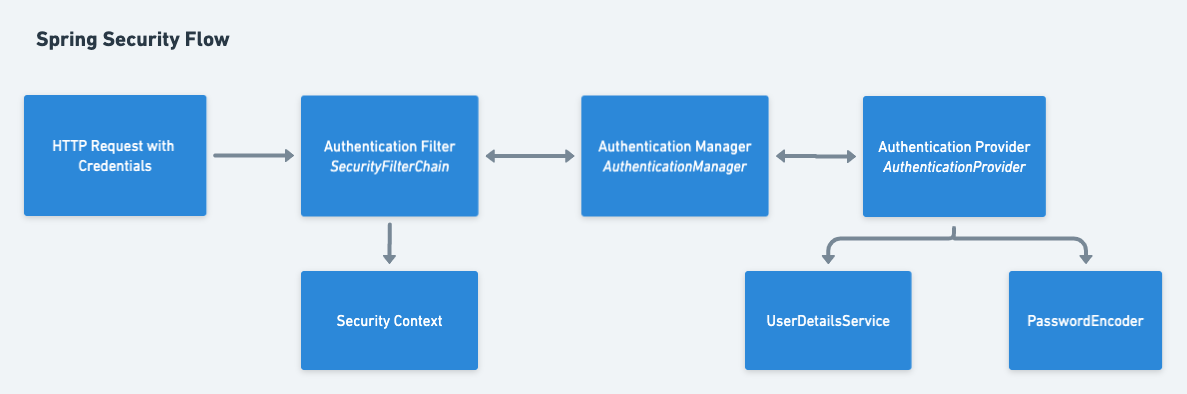
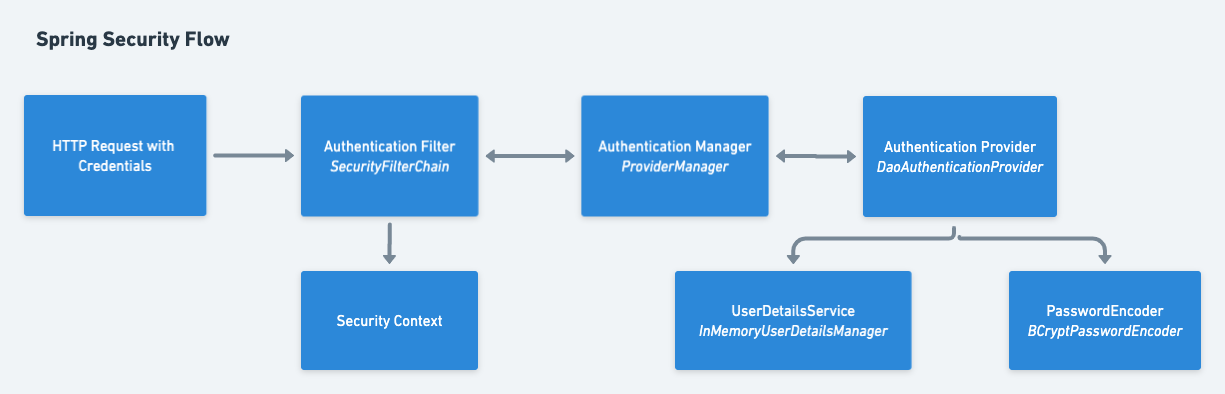
add spring security architecture

diff --git a/introduction.md b/introduction.md
@@ -102,7 +102,8 @@ Simply adding the dependency provides following security features and more to yo
 3. Manages user sessions by default, with options to configure session fixation, session concurrency, and logout options.
 4. Default URL patterns for authentication and authorization. For example, "/login" is the default URL for the login page, and "/logout" is the default URL for logging out.
 5. Adds a login form with fields username and password.
-6. Handles login error.
+6. Adds a logout page woth logout button.
+7. Handles login error.
 
 The default user credentials generated by Spring Security can be overridden by adding the properties to `application.properties` file.
 
@@ -112,21 +113,68 @@ The default user credentials generated by Spring Security can be overridden by a
 ```
 
 
-###  Configuring Spring Security
+##  Configuring Spring Security
 
-Create a security configuration class and annotate it with *@EnableWebSecurity* and *@Configuration* annotations. Implement the *WebSecurityConfigurer* interface, which provides methods to configure security settings.
-
-```
-
-```
+Create a security configuration class and annotate it with *@EnableWebSecurity* and *@Configuration* annotations. 
 
 ```java
-public class Tutorial {
-    public static void main(String...args){
-        
-    }
+
+@EnableWebSecurity
+@Configuration
+public class SecurityConfig {
+	...
+}
+```
+
+### Security Filter Chain
+
+In Spring Security, the security filter chain is a series of filters that intercept and process incoming HTTP requests to enforce security measures in a web application. The security filter chain is responsible for handling authentication, authorization, and other security-related tasks.
+
+The security filter chain is comprised of a set of filter classes, each responsible for a specific security function such as authentication, authorization, CSRF protection, session management, and more. These filters work together in a specific order to apply the necessary security measures to incoming requests.
+
+```java
+@Bean
+public SecurityFilterChain filterChain(HttpSecurity http) throws Exception {
+    http.authorizeHttpRequests()
+        .requestMatchers("/","/home").hasRole("ADMIN")
+        .requestMatchers("/ca-en", "/ca-fr").hasAnyRole("ADMIN", "USER")
+        .and().formLogin().and().csrf().disable();
+
+    return http.build();
 }
 
 ```
 
+### In-memory Authentication
 
+In-memory authentication is a method of authentication provided by Spring Security that stores user credentials in memory rather than in a database. With in-memory authentication, user information such as usernames, passwords, and roles are stored in an in-memory data structure such as a hash map or a list.
+
+When a user attempts to authenticate, the *InMemoryUserDetailsManager* is used to retrieve their credentials from the in-memory data structure. If the credentials are valid, the user is authenticated and authorized based on their roles.
+
+```java
+@Bean
+public InMemoryUserDetailsManager userDetailsService() {
+    UserDetails user1 = User.withUsername("user1")
+        .password(passwordEncoder().encode("password1"))
+        .roles("USER")
+        .build();
+    UserDetails user2 = User.withUsername("user2")
+        .password(passwordEncoder().encode("password2"))
+        .roles("ADMIN")
+        .build();
+    return new InMemoryUserDetailsManager(user1, user2);
+}
+
+ @Bean
+public PasswordEncoder passwordEncoder() {
+    return new BCryptPasswordEncoder();
+}
+```
+
+### Authentication Manager
+
+In Spring Security, the default AuthenticationManager is an instance of *ProviderManager*, which is an implementation of the *AuthenticationManager* interface.
+
+The *ProviderManager* delegates authentication to a list of AuthenticationProvider instances. When an Authentication object is passed to the authenticate method of the AuthenticationManager, the *ProviderManager* will iterate through its list of AuthenticationProvider instances until one of them is able to authenticate the user. If no AuthenticationProvider can authenticate the user, an exception will be thrown.
+
+The default AuthenticationManager is created automatically by Spring Security and is typically used when no custom authentication provider or AuthenticationManager implementation is specified.

diff --git a/architecure.md b/architecure.md
@@ -1,4 +1,32 @@
 ---
 ---
 # Architecture Spring Security
-### High Level Review 
+### Security Filter Chain
+
+In Spring Security, the security filter chain is a series of filters that intercept and process incoming HTTP requests to enforce security measures in a web application. The security filter chain is responsible for handling authentication, authorization, and other security-related tasks.
+
+The security filter chain is comprised of a set of filter classes, each responsible for a specific security function such as authentication, authorization, CSRF protection, session management, and more. These filters work together in a specific order to apply the necessary security measures to incoming requests.
+
+The order of filters in the security filter chain is important, as each filter depends on the output of the previous filter. The default security filter chain in Spring Security includes several filters such as the WebAsyncManagerIntegrationFilter, SecurityContextPersistenceFilter, HeaderWriterFilter, CsrfFilter, LogoutFilter, and UsernamePasswordAuthenticationFilter.
+
+Developers can customize the default security filter chain or create their own by adding or removing filters or changing their order. This customization allows developers to tailor the security measures of the application to meet specific requirements.
+
+Overall, the security filter chain is a crucial component of Spring Security that helps enforce security measures in web applications by processing incoming requests and applying appropriate security measures.
+
+### Authentication Manager
+
+In Spring Security, the default AuthenticationManager is an instance of ProviderManager, which is a composite implementation of the AuthenticationManager interface.
+
+The ProviderManager delegates authentication to a list of AuthenticationProvider instances. When an Authentication object is passed to the authenticate method of the AuthenticationManager, the ProviderManager will iterate through its list of AuthenticationProvider instances until one of them is able to authenticate the user. If no AuthenticationProvider can authenticate the user, an exception will be thrown.
+
+The default AuthenticationManager is created automatically by Spring Security and is typically used when no custom authentication provider or AuthenticationManager implementation is specified.
+
+By default, the ProviderManager uses three built-in authentication providers:
+
+DaoAuthenticationProvider: Authenticates users against a user database or other persistent storage.
+AnonymousAuthenticationProvider: Provides anonymous authentication for unauthenticated users.
+RememberMeAuthenticationProvider: Authenticates users based on a previously stored remember-me token.
+Developers can customize the default AuthenticationManager by adding or removing authentication providers, or by creating their own custom authentication providers. This allows developers to implement custom authentication mechanisms or integrate with external authentication systems.
+
+Overall, the default AuthenticationManager in Spring Security provides a flexible and extensible way to authenticate users using a variety of authentication providers.
+
